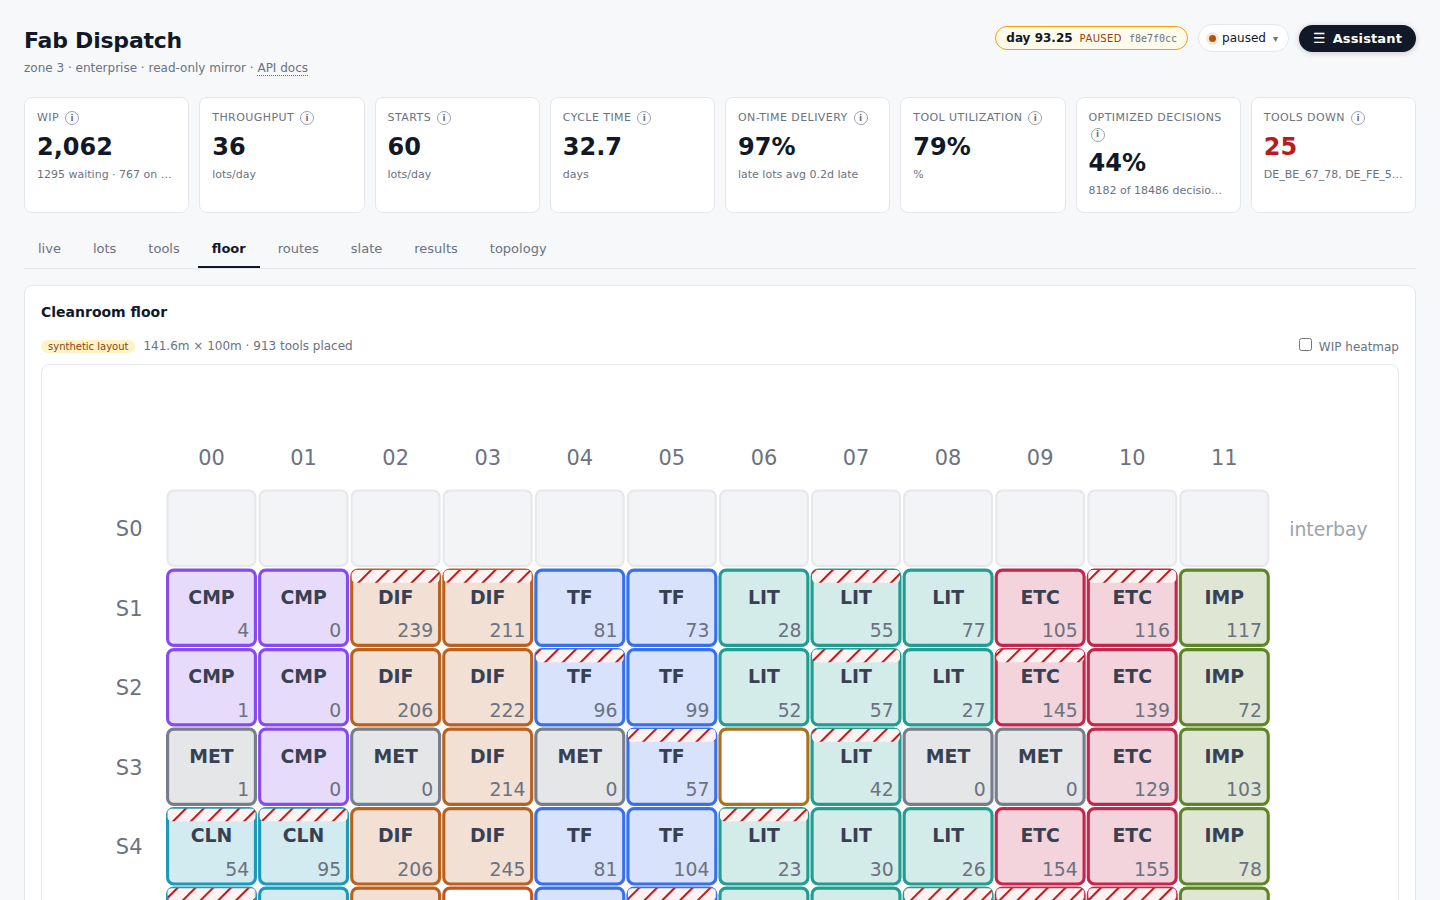
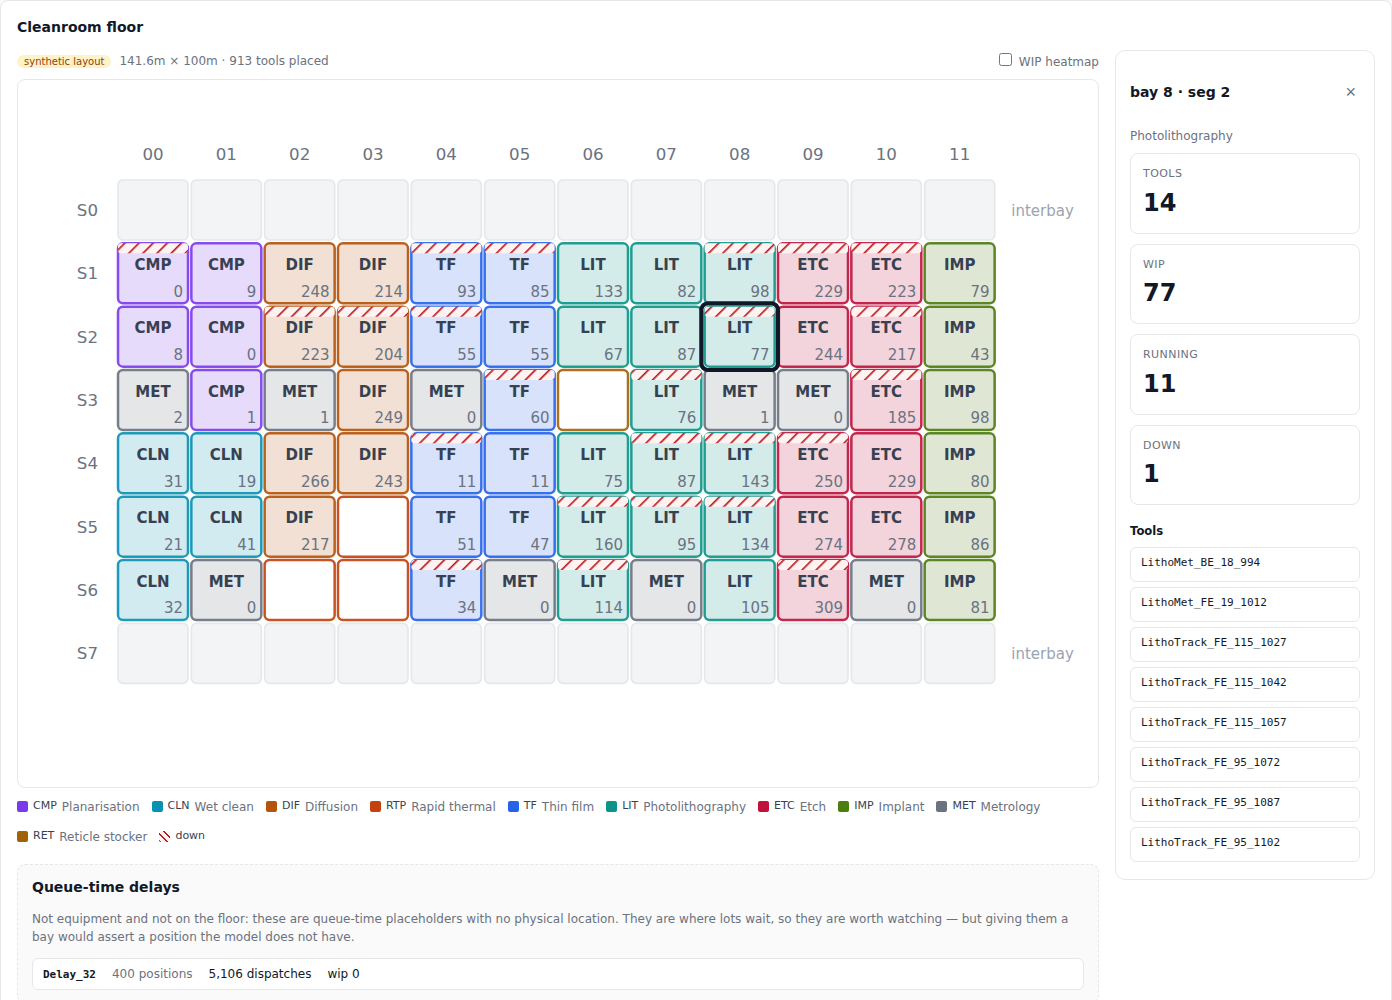
README tour: floor map with a selected bay and its side panel
Claude-Session: https://claude.ai/code/session_013AEQWXnqfUe5GqHVavaMmw

diff --git a/README.md b/README.md
@@ -97,8 +97,12 @@ dispatches and the choice set it was offered.
 
 A synthetic bay/chase layout of the same 913 process tools, coloured by
 area, with WIP per bay and a heatmap toggle. Hatching marks bays with a
-tool down. It answers the spatial question the tables cannot: where in the
-fab the queue is building, and whether it is one bay or a whole area.
+tool down. Clicking a bay opens its panel — here bay 8 · seg 2,
+photolithography: 14 tools, 77 lots of WIP, 11 running, 1 down, and the
+tool list, each a link into the tools tab. It answers the spatial question
+the tables cannot: where in the fab the queue is building, and whether it
+is one bay or a whole area. The selection lives in the URL
+(`#/floor?bay=8,2`), so a view is pasteable.
 
 ### Routes — what a product's journey looks like
 ![routes](docs/screenshots/routes.png)
